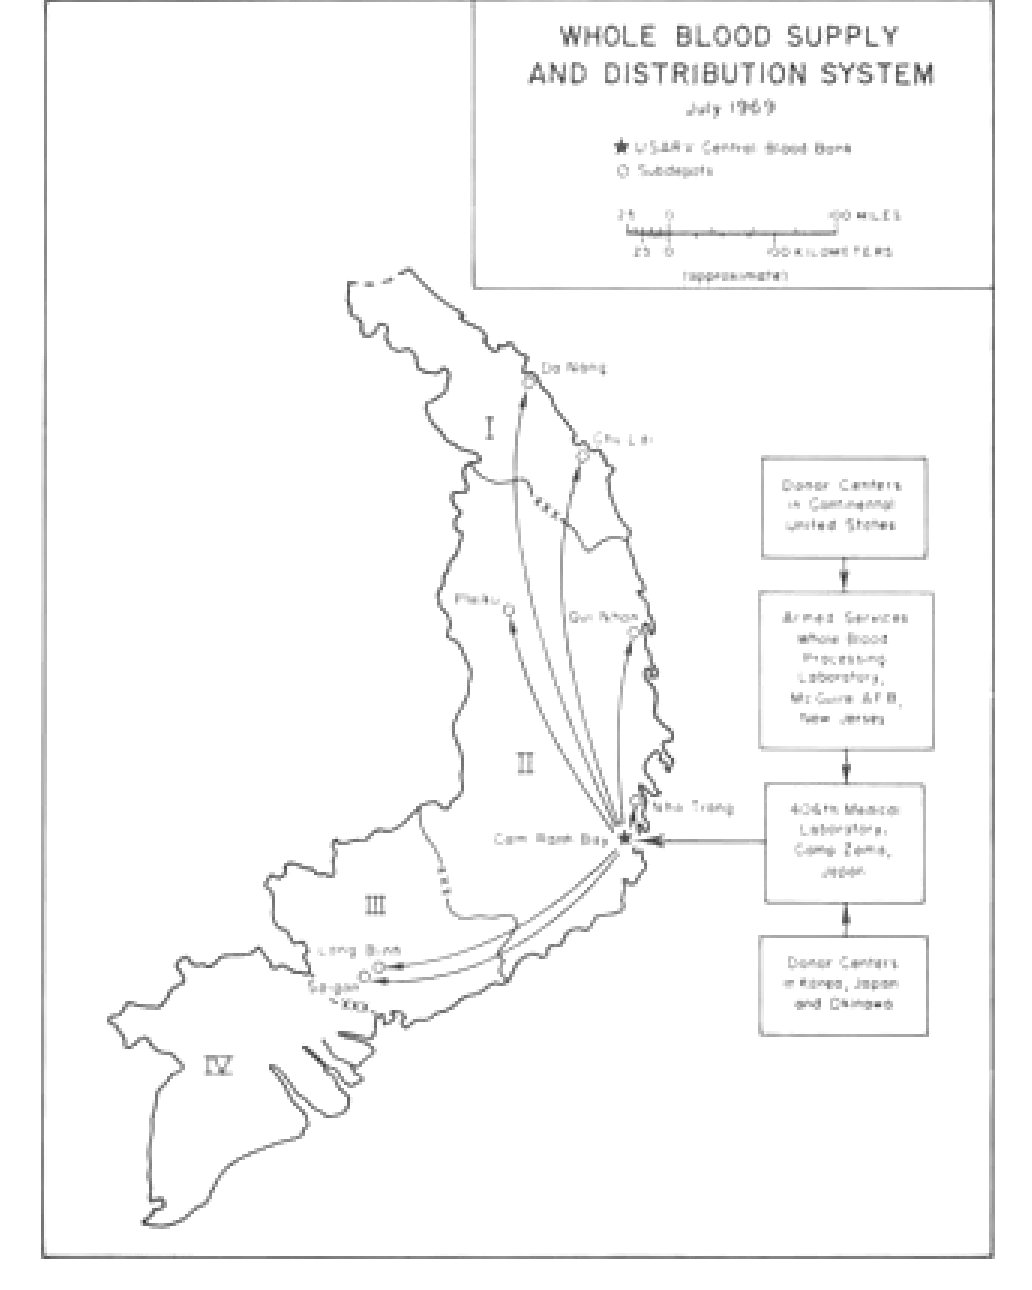
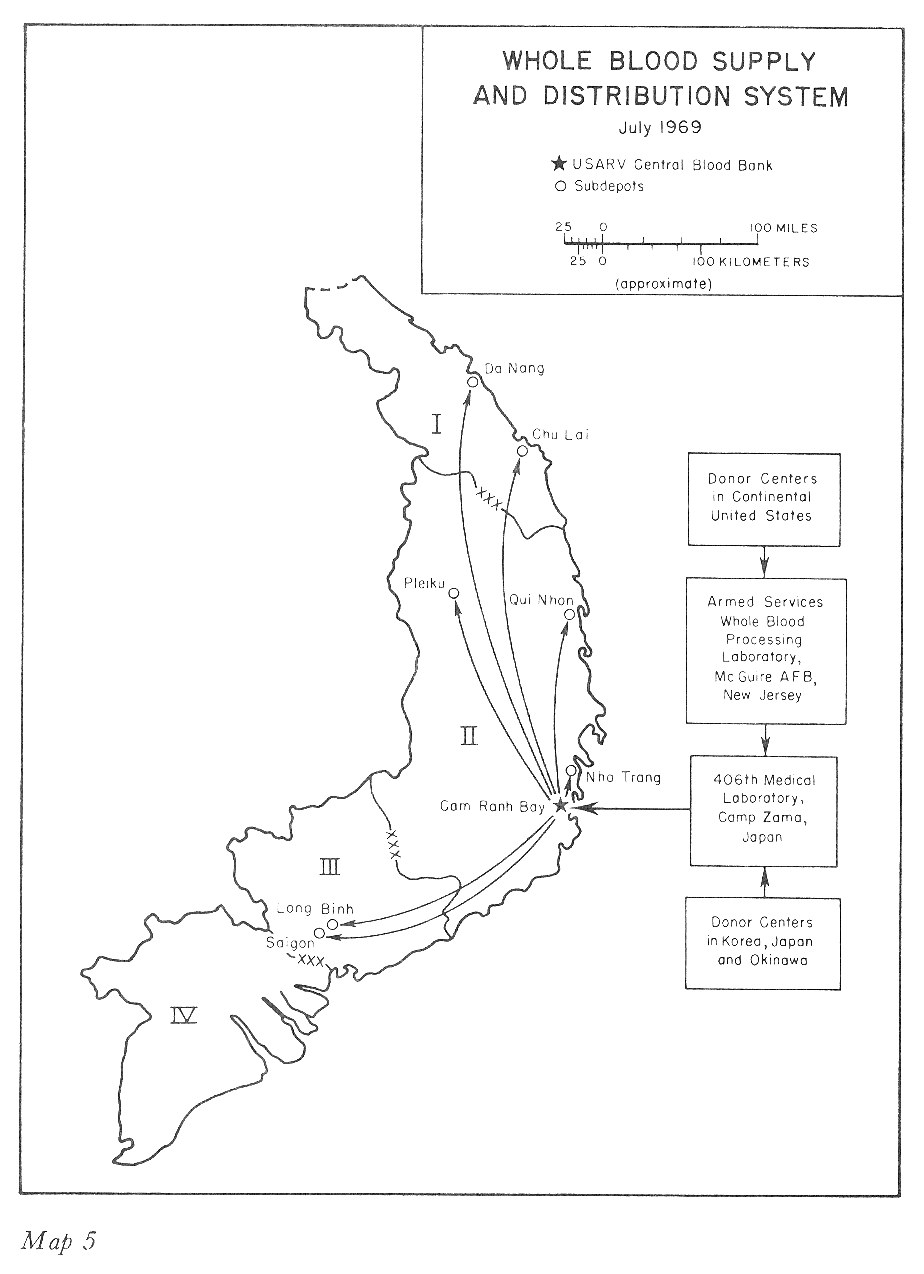
fix(cleanup): a legible map 5 for blood/vietnam-blood, and the content-cleanup skill
The July 1969 distribution map could not be read: archive.org's CMHPub90-16
PDF embeds it at 408x653, and map-5.jpg was that copy upscaled. It is
replaced by the lossless 924x1274 scan from the Office of Medical History's
web edition (Wayback capture of ch09map05.pdf, 2004), with one levels curve
to remove show-through from the facing page. Citation and edits updated.

Adds skills/content-cleanup: small content fixes as a mini-sprint on a
cleanup-<tag> branch, logged in sprints/content-cleanup.md, gated by
just check, squash-merged and deployed to the service and the public site.

Changed region(s): [[0.0, 0.0, 1.0, 0.9796], [0.4848, 0.5816, 0.5152, 0.6122], [0.2121, 0.8878, 0.2424, 0.9184]]

diff --git a/skills/content-cleanup/SKILL.md b/skills/content-cleanup/SKILL.md
@@ -1,0 +1,175 @@
+---
+name: kloom-content-cleanup
+description: Land a small content fix in kloom (a blurry image swapped for a legible scan, a wrong date, a broken citation, a caption) as a mini-sprint with no korg work item and no numbered sprint record. Checks the repo is on a clean main, branches `cleanup-<tag>`, makes the change, logs it in `sprints/content-cleanup.md`, runs `just check`, then commit, PR, squash merge, clean up locally, `just deploy` and `just publish-public`. Use when Ken asks for a "simple update", a "cleanup", or a one-frame fix he wants live now.
+---
+
+# Content cleanup
+
+A numbered sprint (`sprints/###-<name>.md`, a korg proposal, work items) is
+the right size for a feature. It is too much ceremony for one frame's fix.
+A cleanup is a mini-sprint: the same gate, PR and deploys, with a dated
+entry in one running log, `sprints/content-cleanup.md`, instead of a record
+of its own.
+
+## Is it a cleanup?
+
+Yes, when **all** of these hold:
+
+- It changes content only: files under `subjects/` or `names/` (a reading,
+  a `frame.json`, an image or chart, a name). No `engine/`, `src/`,
+  `create-tools/`, `deploy/` or `justfile` change.
+- It is a few frames at most, and no frame is added or removed. New frames
+  are grow (`skills/grow`) or authoring (`skills/author-subject`).
+- Nothing in it needs a decision from Ken that he has not already made in
+  the conversation.
+
+Otherwise, file a korg work item and run a sprint. If it was a cleanup
+until a code change turned up, stop and say so; don't widen the branch.
+
+## 1. Preflight
+
+```sh
+git fetch origin
+git branch --show-current            # main
+git status --porcelain               # nothing
+git rev-parse HEAD origin/main       # the same commit
+just grow-pending                    # exit 0
+```
+
+Any of the first three wrong: stop and tell Ken (the `resolve-repo-state`
+skill walks the options). Never stash or reset his work to get through.
+`just grow-pending` exiting 1 means grown content waits for review. That
+review ships as its own PR first (CLAUDE.md), so tell Ken and let him
+choose between running `skills/review-grown` now and going ahead with the
+cleanup.
+
+## 2. Branch
+
+```sh
+git checkout -b cleanup-<short-tag>
+```
+
+The tag names the thing fixed, in a few words: `cleanup-vietnam-blood-dist`
+for the distribution map in `blood/vietnam-blood`.
+
+## 3. Make the change
+
+All of CLAUDE.md's content rules apply, and three of them come up in
+nearly every cleanup:
+
+- **`edits`.** A changed fact, date, attribution, quotation or source on a
+  published frame gets an `edits` entry in its `frame.json`, newest first
+  (`skills/grow/SKILL.md` §Edits and corrections). A new scan of the same
+  image is a changed source, so it gets one. A typo does not.
+- **Media citations.** A replaced image keeps a `media` citation with a
+  `licence`. Point `url` at where the new file really came from, and put
+  anything done to it in `note` ("Levels adjusted to remove show-through").
+- **American English** in kloom's own words; `just check` flags the rest.
+
+Images:
+
+- Look for a better **source** before you try to improve a file. A blurry
+  plate is usually a small copy of a good scan. Try the publisher's own
+  web edition (live, or on the Wayback Machine, where an older capture can
+  be the uncompressed one), then the book's other scans.
+- What you may do to a found scan: crop, rotate, a levels or contrast
+  curve, grayscale, resizing **down**. Each one is recorded in the
+  citation's `note`.
+- Upscaling or AI enhancement makes up detail, and on a map or chart that
+  detail can be wrong. Don't use it unless Ken has agreed to it in the
+  conversation. If he has, the caption must say the image was enhanced from
+  a low-resolution source and may contain errors.
+- Work in `.scratch/cleanup-<short-tag>/`, not `/tmp`. When you replace an
+  image, write the new file and `mv` it over the old one. Some media files
+  are hard-linked into `.scratch` copies, and writing into them in place
+  changes those copies too.
+
+## 4. Log it
+
+Add an entry at the end of `sprints/content-cleanup.md`, newest last:
+
+```markdown
+## YYYY-MM-DD · cleanup-<short-tag>
+
+**What:** the frame(s) and what was wrong, in a sentence or two.
+
+**Change:** what you did and where the fix came from (the source, with its
+URL; what was done to an image).
+
+**Repaired in passing:** (only if there was any)
+```
+
+The `### Deployed` part is added in step 8, after the deploys, never
+written ahead of them.
+
+## 5. Gate
+
+```sh
+just check
+```
+
+It must pass in full. Any other check whose surface you touched runs too.
+A change to a frame's scene (`frame.json` `scene`, `scene.svg`) runs
+`just scene-fit <subject>`.
+
+## 6. Commit, PR, merge
+
+```sh
+git add -A subjects names sprints/content-cleanup.md
+git commit        # fix(cleanup): <what>  (a body that says why; Co-Authored-By trailer)
+git push -u origin cleanup-<short-tag>
+gh pr create --fill
+gh pr merge --squash --delete-branch
+```
+
+The title is `fix(cleanup): …` for something that was wrong, or
+`content(cleanup): …` for an improvement. The squash merge is what the
+Changelog and the frames' `added` dates read (`engine/history.ts`), so
+always squash. kloom has no GitHub CI: `just check` in step 5 is the gate.
+
+## 7. Clean up locally
+
+```sh
+git checkout main
+git pull --ff-only
+git branch -D cleanup-<short-tag>     # -D: a squash merge is not an ancestor
+git status --porcelain                # nothing
+```
+
+## 8. Deploy, then record it
+
+Run these on kai, from the merged `main` (docs/deploying.md):
+
+```sh
+just deploy           # the service on kai; ends with `just verify`
+just publish-public   # kloom.kenhiatt.us; ends with verify-public
+```
+
+`just deploy` restarts the service, which takes merged `main` into its
+content clone and rebuilds the library. Check the fixed frame live on the
+ssh door, `http://127.0.0.1:4891/<subject>/<frame>` and any media you
+changed under `/media/<subject>/…`. Each must answer 200.
+
+`publish-public` only ships subjects in `publish.json`. If the cleanup's
+subject is not in it, skip the publish and say so in the log.
+
+Then add the deploy to the entry and push it straight to `main`, as every
+sprint's deploy record goes:
+
+```markdown
+### Deployed
+
+YYYY-MM-DD from `main` at `<short sha>` (PR #N): the service on kai (`just
+verify` all ok, the frame and its media 200 on :4891) and the public site
+(Fly release vNN, image `kloom-reader:<label>`, verify-public all ok).
+```
+
+```sh
+git commit -am "docs(cleanup): record the deploy of cleanup-<short-tag> [skip ci]"
+git push
+```
+
+## 9. Report
+
+Tell Ken what was fixed, the PR, and that both deploys verified. Give the
+fixed frame's public URL. Paths and hashes stay in the log.

diff --git a/sprints/content-cleanup.md b/sprints/content-cleanup.md
@@ -1,0 +1,26 @@
+# Content cleanups
+
+Small content fixes landed by `skills/content-cleanup/SKILL.md`, one entry
+each, newest last. Each is a mini-sprint (branch `cleanup-<tag>`, `just
+check`, a squash-merged PR, both deploys) with no korg work item and no
+numbered sprint record of its own.
+
+## 2026-10-06 · cleanup-vietnam-blood-dist
+
+**What:** `blood/vietnam-blood`'s map 5 (Whole Blood Supply and
+Distribution System, July 1969) could not be read. The cited source,
+archive.org's `CMHPub90-16` PDF, embeds the plate at only 408×653 and
+heavily compressed, and `map-5.jpg` was that image enlarged to 1032×1290.
+The scan was poor at the source, and nothing kloom did made it worse.
+
+**Change:** In place of an upscale, we found a better source. The Army
+Medical Department Office of Medical History's web edition published each
+map as its own PDF. The Wayback Machine's 2004 capture of
+`ch09map05.pdf` (1.4 MB) holds a lossless 924×1274 scan with every label
+legible. Captures from 2010 on are a 74 KB recompressed copy. The scan's only
+fault was text from the facing page (table 9) showing through the paper.
+One levels curve over the whole image (input 70–150 stretched to 0–255)
+whitened that and kept the line work. Nothing was drawn, sharpened or
+upscaled. Saved as a grayscale JPEG. The media citation now points at the
+2004 capture and its `note` records the levels pass. Because the source
+changed, the frame carries a `revision` entry in `edits`.

diff --git a/CLAUDE.md b/CLAUDE.md
@@ -358,7 +358,8 @@ validation, Svelte UI; alias `$engine`), `subjects/<subject>/` (content),
 `create-tools/` (authoring scripts: plates, citations, charts, traced art),
 `skills/` (agent instructions: `grow/SKILL.md` writes content,
 `author-subject/SKILL.md` authors a whole subject, `review-notes/SKILL.md`
-works through flagged notes).
+works through flagged notes, `content-cleanup/SKILL.md` lands a small
+content fix as a mini-sprint logged in `sprints/content-cleanup.md`).
 
 **Before a sprint's own work, review grown content** (korg 3442): run
 `just grow-pending`. If it lists a pending grow branch (the service's
